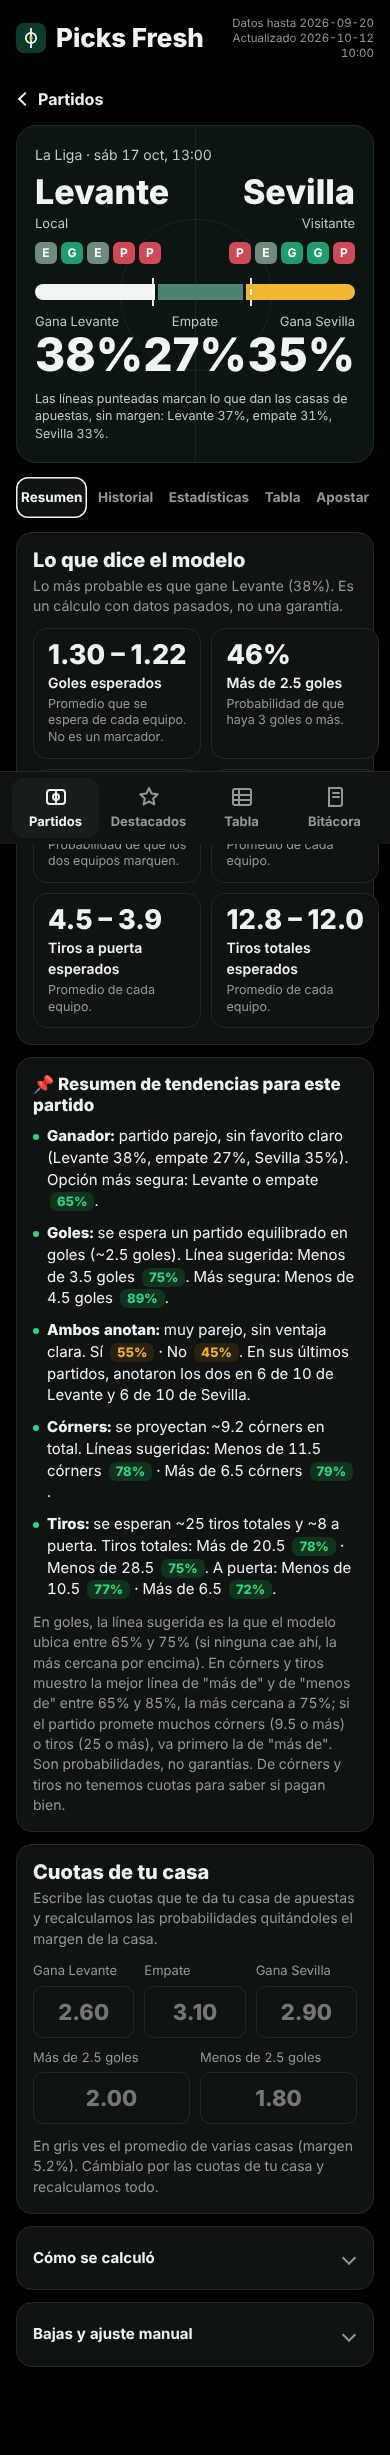
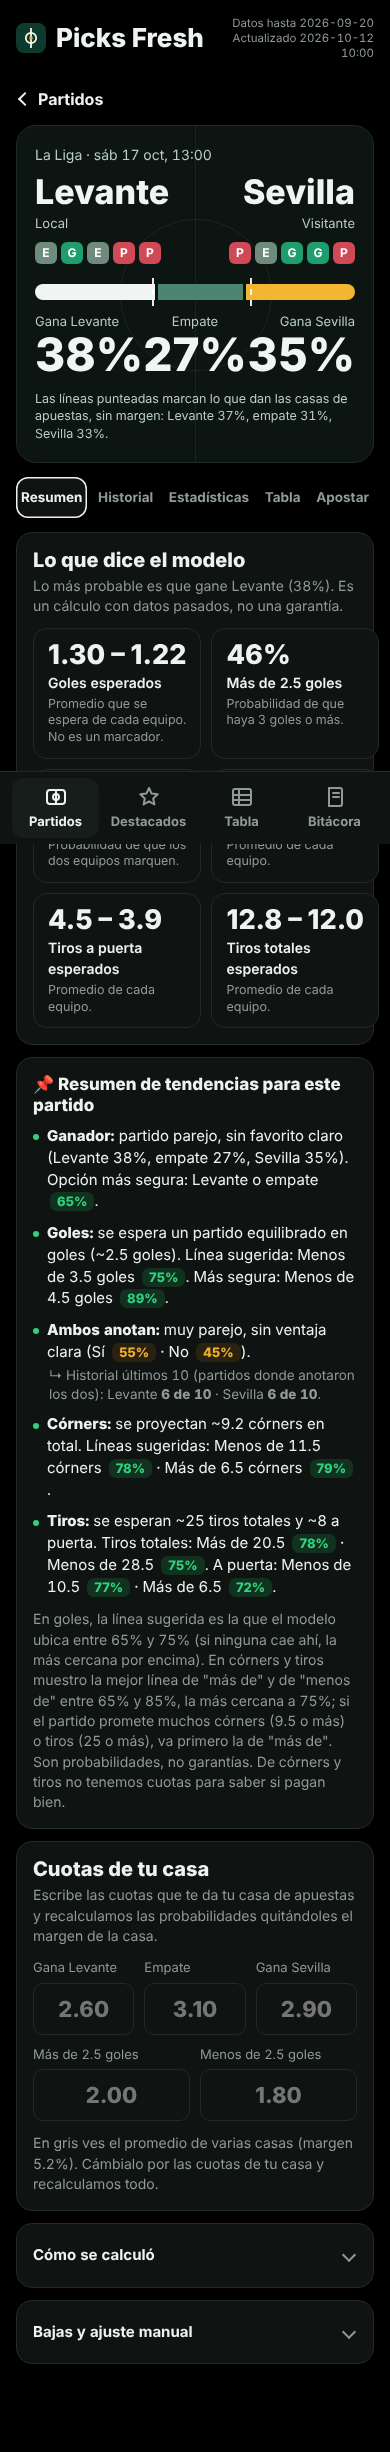
Resumen de tendencias: Ambos anotan separa la predicción del historial de los dos equipos
Claude-Session: https://claude.ai/code/session_01YKbpTzYu7cTPcBzQGSTsEC

diff --git a/build.py b/build.py
@@ -1182,6 +1182,7 @@ ul.exp b{font-weight:800}
 .ev .evr{display:grid;grid-template-columns:1fr auto;grid-template-areas:"t p" "c p";gap:2px 12px;align-items:center;padding:9px 0;border-top:1px solid var(--line);font-size:15px}
 .ev .evg{margin-top:14px;font:700 12px/1.2 var(--body);letter-spacing:.04em;text-transform:uppercase;color:var(--muted)}
 .ev .evr .evt{grid-area:t} .ev .evr .evc{grid-area:c} .ev .evr .evp{grid-area:p;font-size:22px;text-align:right}
+.exp .exs{display:block;margin-top:3px;padding-left:2px;color:var(--muted);font-size:13.5px;line-height:1.4}
 .evt i{font-style:normal;color:var(--muted);font-size:13.5px}
 .evc{font:700 15px/1.2 var(--body);color:var(--ink);text-align:left}
 .ev .evg{text-align:left}
@@ -1545,9 +1546,8 @@ function expectHtml(h,a,c,fin){
   const gtype=c.o25>=0.60?"partido abierto":c.o25<=0.40?"partido cerrado":"partido equilibrado en goles";
   if(gl)li.push(`<li><b>Goles:</b> se espera un ${gtype} (~${(c.lh+c.la).toFixed(1)} goles). Línea sugerida: ${gl.pk.lbl} ${pcTag(gl.pk.p)}.${gl.sf?` Más segura: ${gl.sf.lbl} ${pcTag(gl.sf.p)}.`:""}</li>`);
   const bt=c.bt, yes=bt>=0.5, pl=yes?bt:1-bt;
-  const bform=t=>{const sr=seriesFor(t,league==="ucl"?"ucl":"all",10); if(!sr||!sr.ok)return null; const r=sr.ms.map(nrm).map(m=>m.f>0&&m.c>0); return r.length>=4?{t:t,x:r.filter(Boolean).length,n:r.length}:null;};
-  const bf=[bform(h),bform(a)].filter(Boolean), bfTxt=bf.length?` En sus últimos partidos, anotaron los dos en ${bf.map(z=>`${z.x} de ${z.n} de ${esc2(z.t)}`).join(" y ")}.`:"";
-  li.push(`<li><b>Ambos anotan:</b> ${pl>=0.65?(yes?"es probable que los dos marquen":"es probable que al menos uno no marque"):pl>=0.57?`ligera ventaja para "${yes?"sí":"no"}", sin ser una opción clara`:"muy parejo, sin ventaja clara"}. Sí ${pcTag(bt)} · No ${pcTag(1-bt)}.${bfTxt}</li>`);
+  const bform=t=>{const sr=seriesFor(t,"all",10); if(!sr||!sr.ok)return `${esc2(t)} sin datos`; const r=sr.ms.map(nrm).map(m=>m.f>0&&m.c>0); return `${esc2(t)} <b>${r.filter(Boolean).length} de ${r.length}</b>`;};
+  li.push(`<li><b>Ambos anotan:</b> ${pl>=0.65?(yes?"es probable que los dos marquen":"es probable que al menos uno no marque"):pl>=0.57?`ligera ventaja para "${yes?"sí":"no"}", sin ser una opción clara`:"muy parejo, sin ventaja clara"} (Sí ${pcTag(bt)} · No ${pcTag(1-bt)}).<span class="exs">↳ Historial últimos 10 (partidos donde anotaron los dos): ${bform(h)} · ${bform(a)}.</span></li>`);
   const mk=c.mk||{}, band=(arr)=>arr.filter(x=>x.p>=0.65&&x.p<=0.85).sort((u,v)=>Math.abs(u.p-0.75)-Math.abs(v.p-0.75))[0]||null;
   const one=(k,nm,hiTot)=>{              // mejor "más de" y mejor "menos de" entre 65% y 85% (la más cercana a 75%)
     const M=mk[k]; if(!M)return null;
